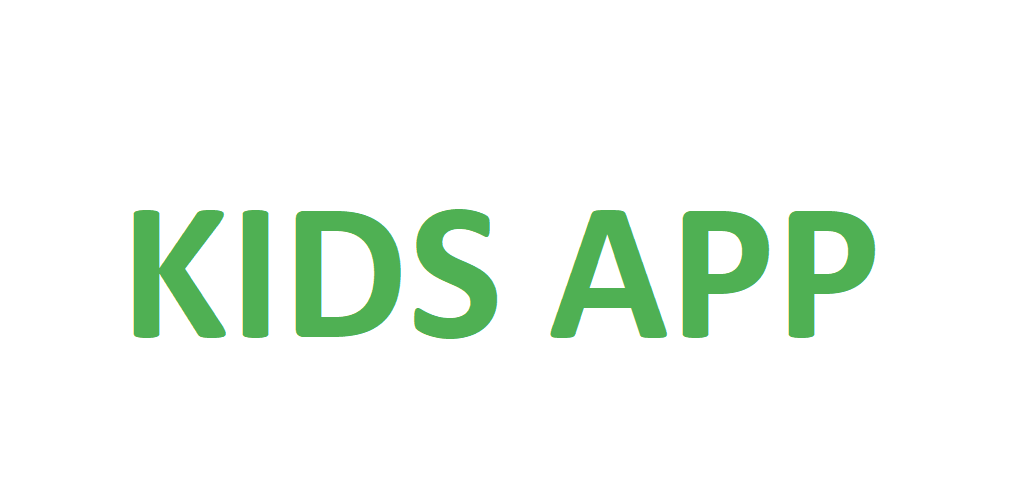
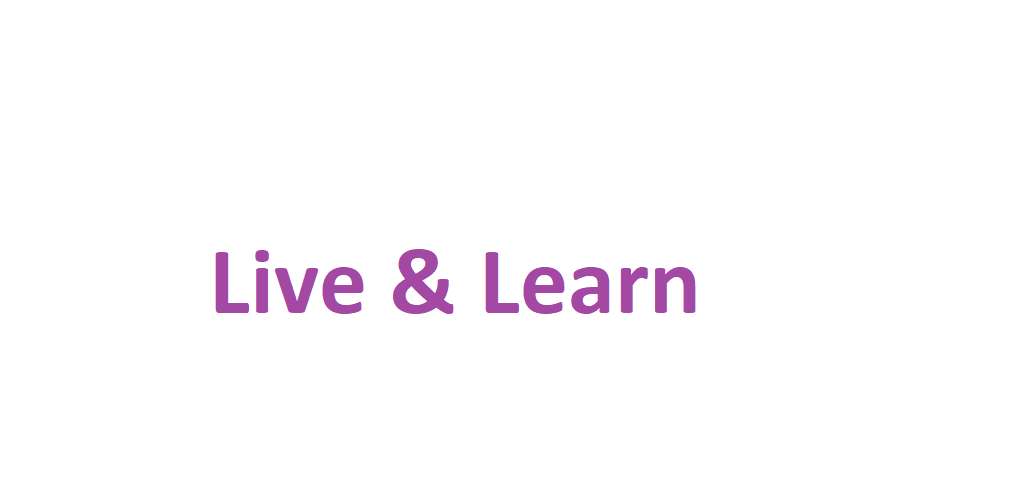
Main Activity

Changed region(s): [[0.125, 0.42, 0.875, 0.69]]

diff --git a/app/src/main/java/com/ruslanlyalko/ll/data/models/AppInfo.java b/app/src/main/java/com/ruslanlyalko/ll/data/models/AppInfo.java
@@ -12,6 +12,7 @@ public class AppInfo implements Serializable {
     private String link;
     private boolean showAnyWay;
     private String linkFb;
+    private String linkSite;
     private String title1;
     private String title2;
     private String aboutText;
@@ -20,7 +21,8 @@ public class AppInfo implements Serializable {
     public AppInfo() {
         aboutText = "Ігрова кімната Чебурашка КІДС почала працювати з 1.6.2016";
         link = "https://play.google.com/store/apps/details?id=com.ruslanlyalko.kidsapp";
-        linkFb = "https://www.facebook.com/groups/cheburashka.kids/";
+        linkFb = "https://www.facebook.com/LiveAndLearnLangauges/?ref=bookmarks";
+        linkSite = "http://www.livelearn.com.ua";
         title1 = "Доступна нова версія!";
         title2 = "натисніть тут щоб оновити";
         latestVersion = 0;
@@ -36,6 +38,14 @@ public class AppInfo implements Serializable {
 
     public String getLinkFb() {
         return linkFb;
+    }
+
+    public String getLinkSite() {
+        return linkSite;
+    }
+
+    public void setLinkSite(final String linkSite) {
+        this.linkSite = linkSite;
     }
 
     public void setLinkFb(final String linkFb) {

diff --git a/app/src/main/java/com/ruslanlyalko/ll/presentation/ui/main/MainActivity.java b/app/src/main/java/com/ruslanlyalko/ll/presentation/ui/main/MainActivity.java
@@ -326,9 +326,14 @@ public class MainActivity extends BaseActivity {
         startActivity(CalendarActivity.getLaunchIntent(this));
     }
 
-    @OnClick(R.id.button_mk)
+    @OnClick(R.id.button_rooms)
     void onMkClicked() {
         startActivity(MkTabActivity.getLaunchIntent(this));
+    }
+
+    @OnClick(R.id.button_clients)
+    void onClientsClicked() {
+        startActivity(ClientsTabActivity.getLaunchIntent(this));
     }
 
     @OnClick(R.id.button_expenses)
@@ -346,9 +351,9 @@ public class MainActivity extends BaseActivity {
         openBrowser(mAppInfo.getLinkFb());
     }
 
-    @OnClick(R.id.button_clients)
-    void onClientsClicked() {
-        startActivity(ClientsTabActivity.getLaunchIntent(this));
+    @OnClick(R.id.button_site)
+    void onSiteClicked() {
+        openBrowser(mAppInfo.getLinkSite());
     }
 
     @OnClick(R.id.button_link)

diff --git a/app/src/main/java/com/ruslanlyalko/ll/data/models/User.java b/app/src/main/java/com/ruslanlyalko/ll/data/models/User.java
@@ -10,7 +10,7 @@ public class User implements Serializable {
     private String email;
     private String birthdayDate = "01.06.1991";
     private String card;
-    private String positionTitle = "Інструктор, Майстриня";
+    private String positionTitle = "Викладач";
     private String workingFromDate = "01.06.2017";
     private String workingStartTime = "10:00";
     private String workingEndTime = "19:00";
